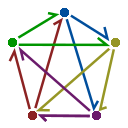
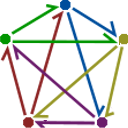
[Hud]

diff --git a/src/code/krokodile.cc b/src/code/krokodile.cc
@@ -162,13 +162,13 @@ int main() {
       auto gamepadMsg = static_cast<kkd::GamepadConnected*>(msg);
       closeWindowAction.addGamepadButtonControl(gamepadMsg->gamepadId, gf::GamepadButton::Back);
       fullscreenAction.addGamepadButtonControl(gamepadMsg->gamepadId, gf::GamepadButton::Start);
-      leftAction.addGamepadAxisControl(gamepadMsg->gamepadId, gf::GamepadAxis::LeftX, gf::GamepadAxisDirection::Negative);
-      rightAction.addGamepadAxisControl(gamepadMsg->gamepadId, gf::GamepadAxis::LeftX, gf::GamepadAxisDirection::Positive);
+      leftAction.addGamepadAxisControl(gamepadMsg->gamepadId, gf::GamepadAxis::RightX, gf::GamepadAxisDirection::Negative);
+      rightAction.addGamepadAxisControl(gamepadMsg->gamepadId, gf::GamepadAxis::RightX, gf::GamepadAxisDirection::Positive);
       upAction.addGamepadAxisControl(gamepadMsg->gamepadId, gf::GamepadAxis::LeftY, gf::GamepadAxisDirection::Negative);
       downAction.addGamepadAxisControl(gamepadMsg->gamepadId, gf::GamepadAxis::LeftY, gf::GamepadAxisDirection::Positive);
       swapAction.addGamepadButtonControl(gamepadMsg->gamepadId, gf::GamepadButton::X);
-      fusionAction.addGamepadButtonControl(gamepadMsg->gamepadId, gf::GamepadButton::A);
-      sprintAction.addGamepadButtonControl(gamepadMsg->gamepadId, gf::GamepadButton::B);
+      fusionAction.addGamepadButtonControl(gamepadMsg->gamepadId, gf::GamepadButton::LeftBumper);
+      sprintAction.addGamepadButtonControl(gamepadMsg->gamepadId, gf::GamepadButton::RightBumper);
       return gf::MessageStatus::Keep;
   });
 
@@ -257,7 +257,6 @@ int main() {
 
     if (easterEgg.isActive()) {
       kreatures.createKrokodile();
-      std::cout << "KONAMI" << std::endl;
     }
 
     // 2. update

diff --git a/src/code/local/Hud.cc b/src/code/local/Hud.cc
@@ -3,6 +3,7 @@
 #include <gf/Anchor.h>
 #include <gf/Color.h>
 #include <gf/Coordinates.h>
+#include <gf/Shapes.h>
 #include <gf/Sprite.h>
 #include <gf/Text.h>
 #include <gf/VectorOps.h>
@@ -91,12 +92,28 @@ namespace kkd {
     pentaSprite.setPosition(pentaPos);
     pentaSprite.setAnchor(gf::Anchor::BottomRight);
 
+    gf::ConvexShape pentaBackground(5);
+    pentaBackground.setPoint(0, { 128.0f * 0.5f, 128.0f * 0.0f });
+    pentaBackground.setPoint(1, { 128.0f * 1.0f, 128.0f * 0.28f });
+    pentaBackground.setPoint(2, { 128.0f * 0.83f, 128.0f * 1.0f });
+    pentaBackground.setPoint(3, { 128.0f * 0.19f, 128.0f * 1.0f });
+    pentaBackground.setPoint(4, { 128.0f * 0.0f,  128.0f * 0.28f });
+
+    pentaBackground.setOutlineThickness(5.0f);
+    pentaBackground.setOutlineColor(gf::Color::Opaque(0.3f));
+    pentaBackground.setColor(gf::Color::Opaque(0.6f));
+    pentaBackground.setScale(HudIconsScale * 3.0f);
+    //pentaBackground.setPosition(pentaPos);
+    pentaBackground.setPosition(pentaPos);
+    pentaBackground.setAnchor(gf::Anchor::BottomRight);
+
     // DRAW EVERYTHING
     target.draw(genText);
     target.draw(timer);
     target.draw(clockSprite);
     target.draw(genSprite);
     target.draw(heartSprite);
+    target.draw(pentaBackground);
     target.draw(pentaSprite);
   }
 
